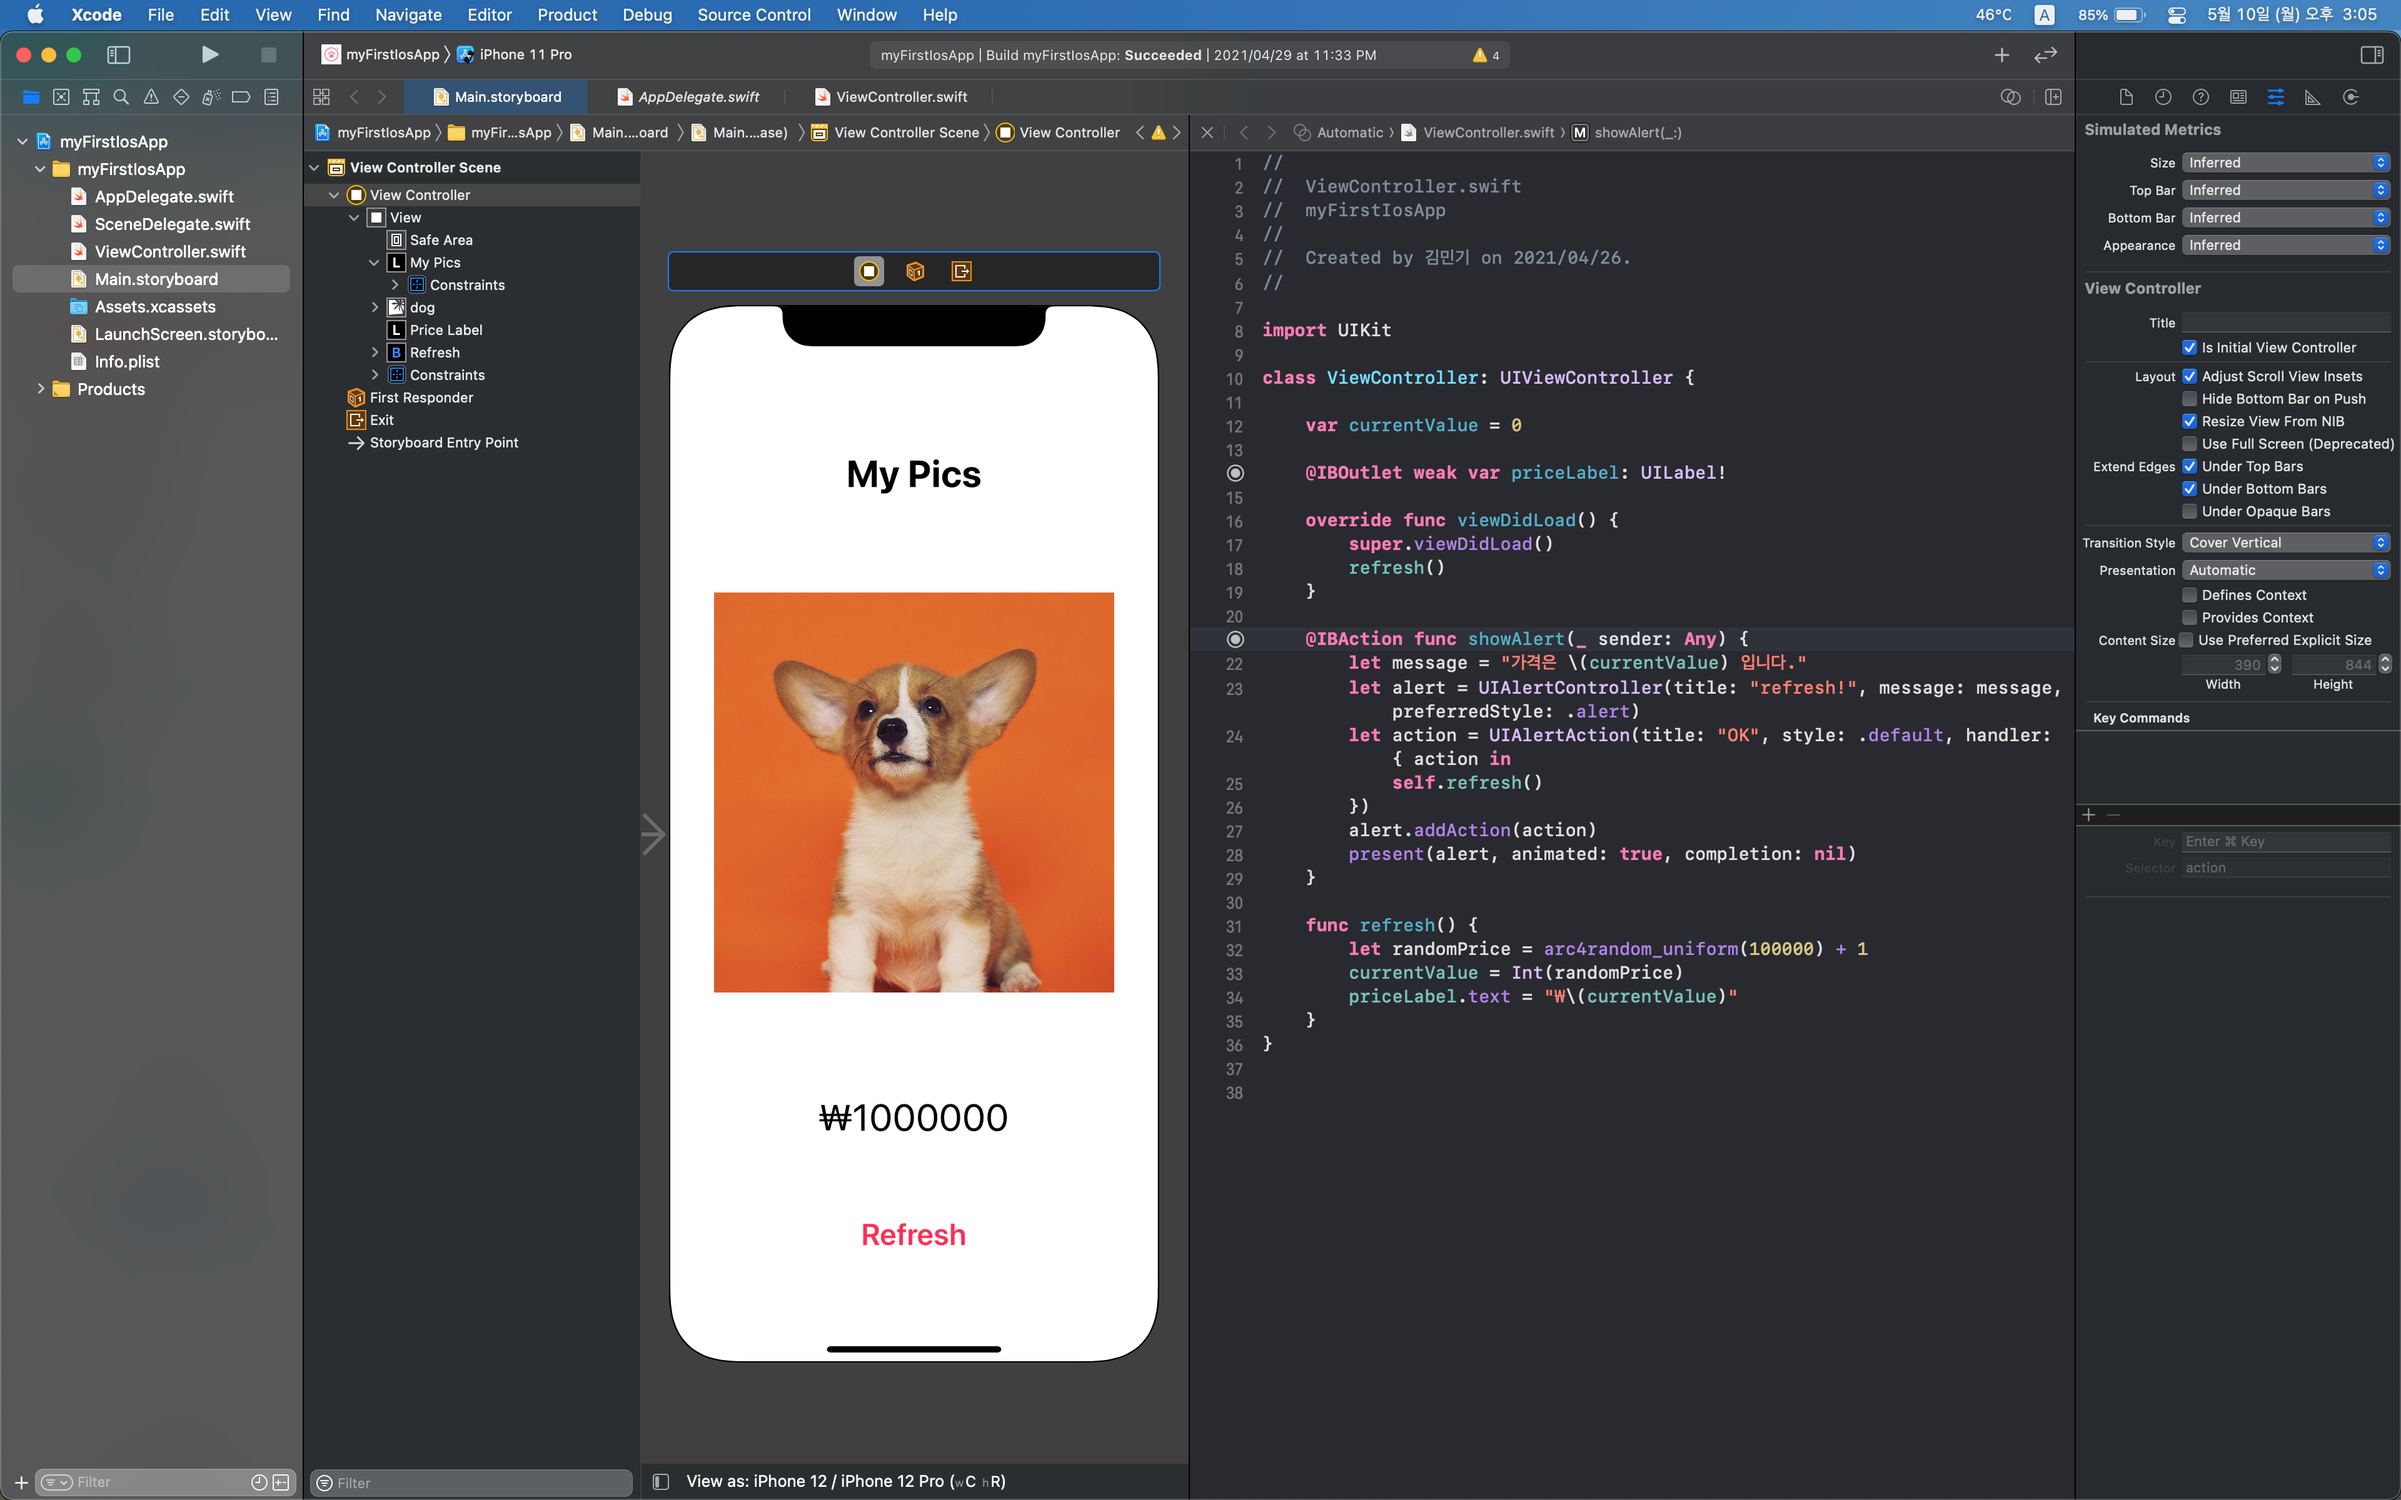
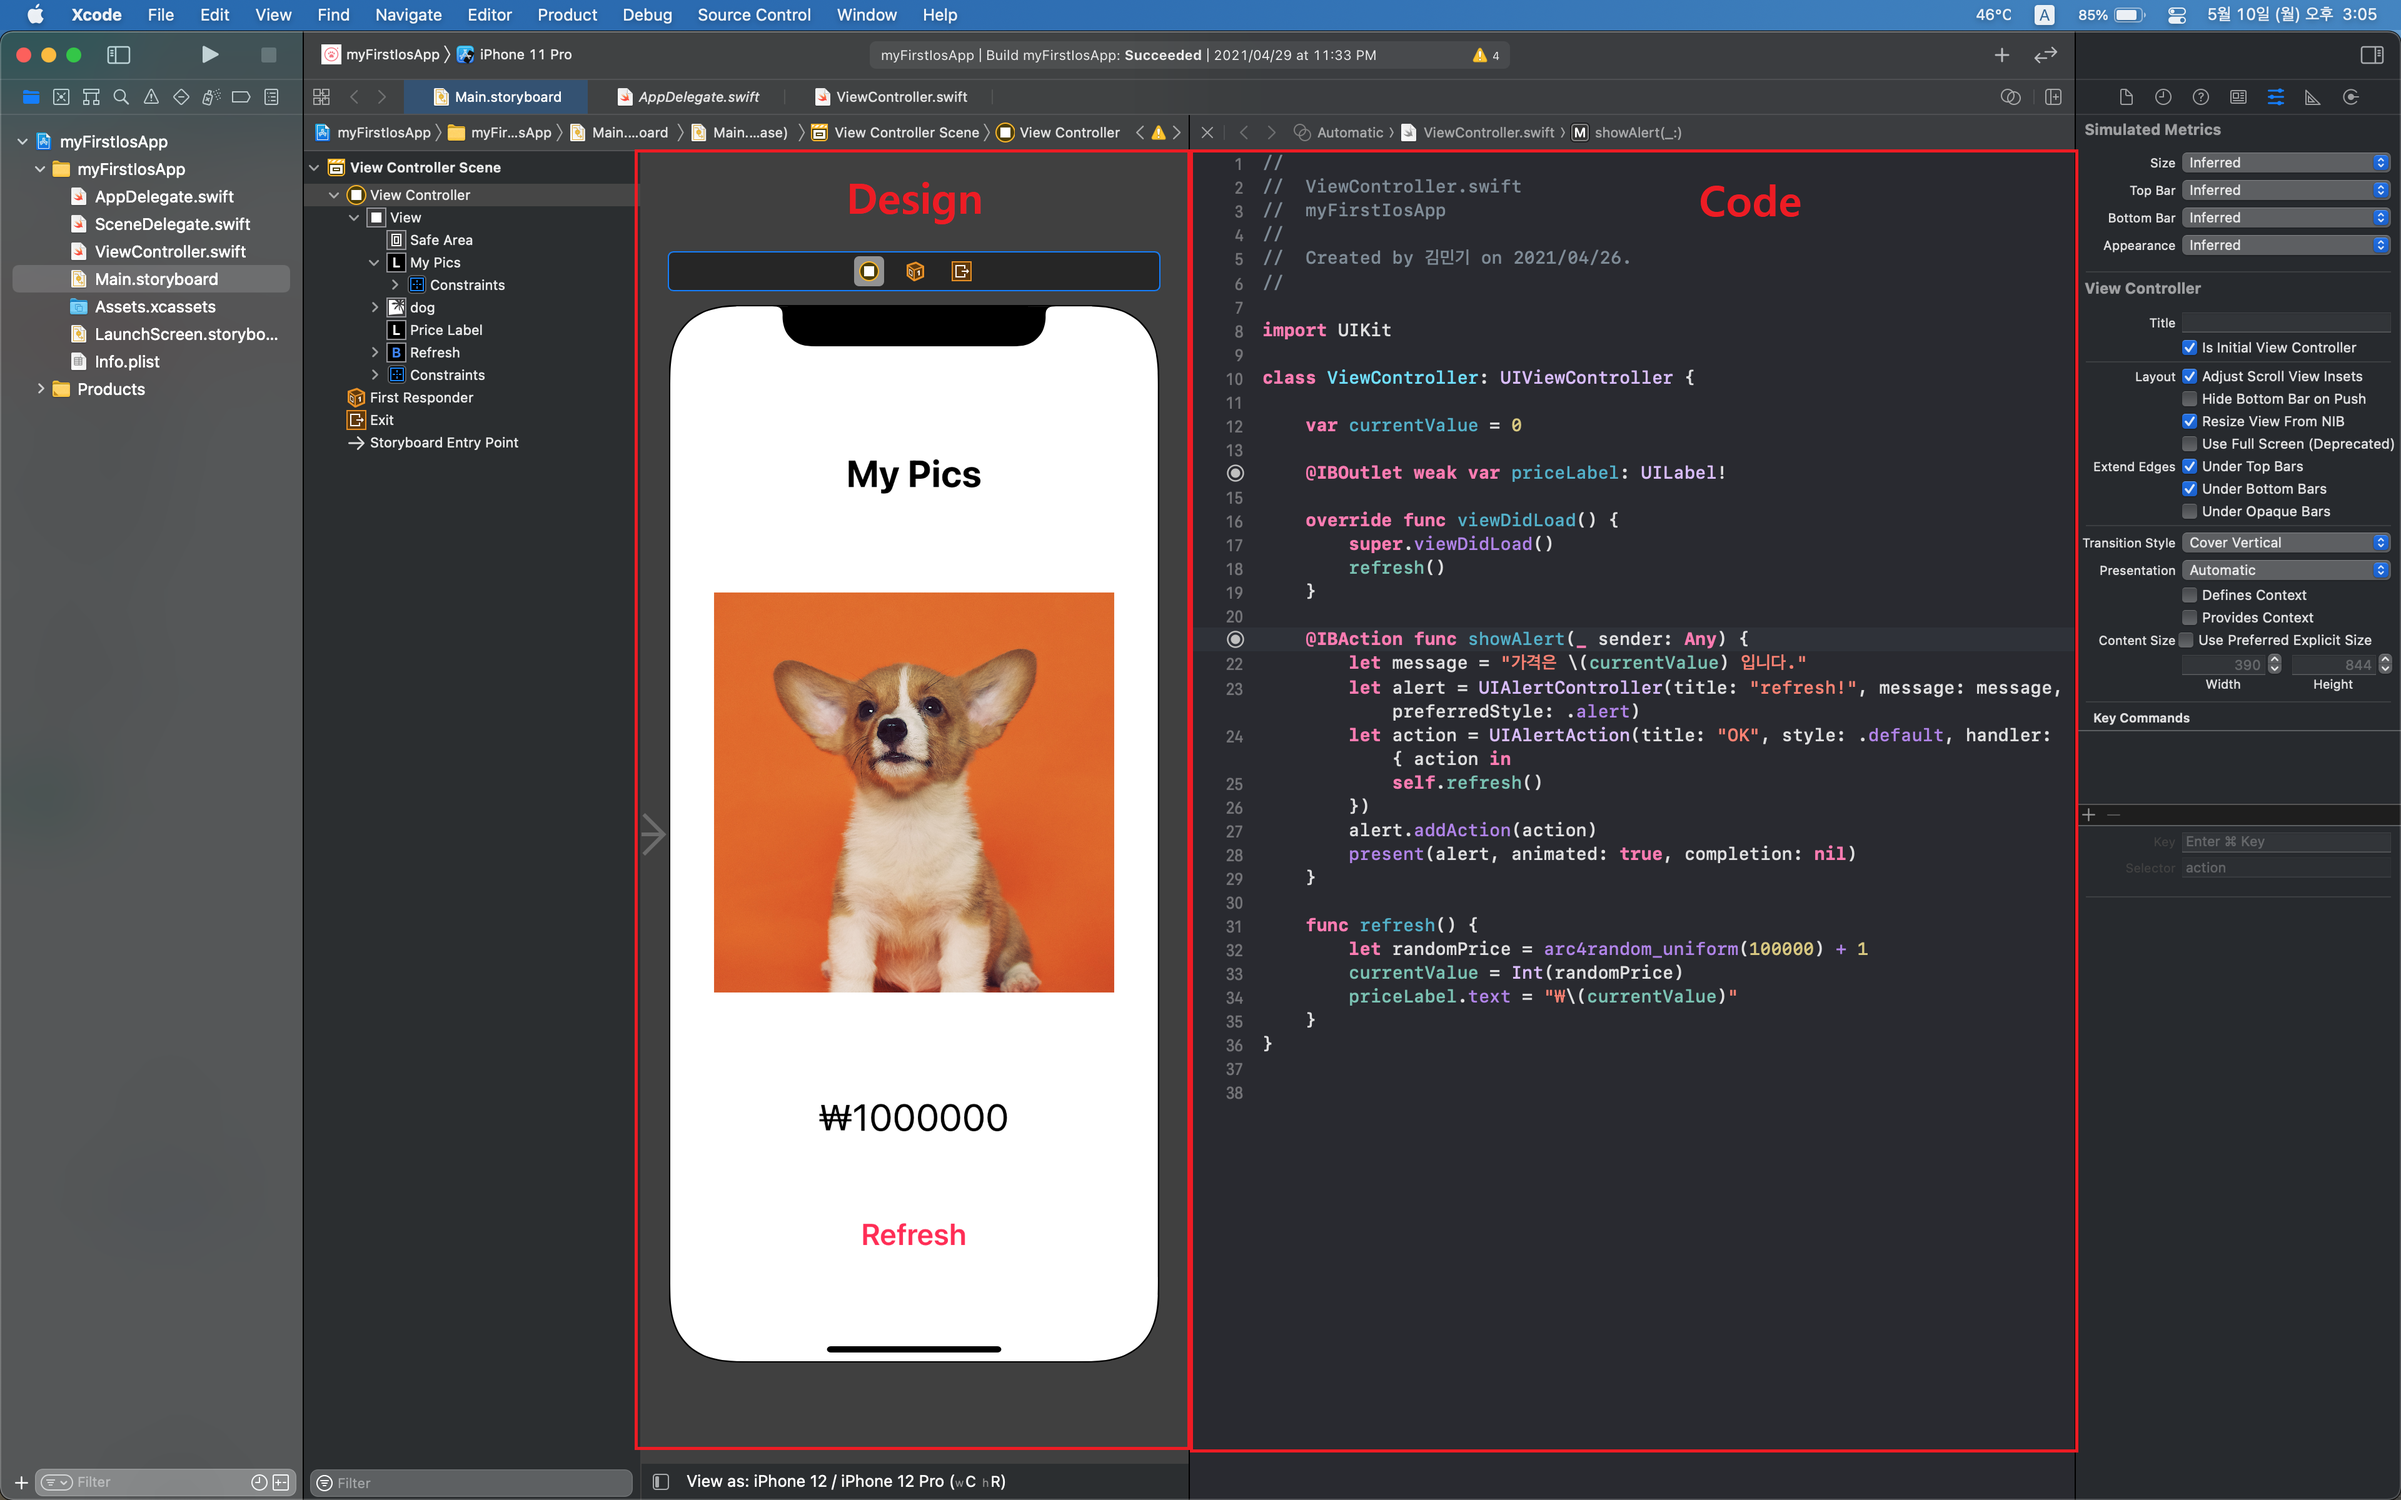
Update Day3.md

diff --git a/Day3.md b/Day3.md
@@ -1,4 +1,4 @@
-### 첫 앱 만들기
+
 
 ---
 
@@ -19,9 +19,12 @@
   <img src = "/img/viewController.png" width="450">
 
   - View Controller는 페이지(스크린) 하나를 담당한다.
+
     - 이번 앱에서는 페이지가 하나만 필요하기 때문에 View Controller 하나만 사용
-    - <img src = "/img/viewControllerPart.png" width="350">
+
     - View Controller는 스토리보드에서 확인하는 Design part 그리고 거기에 연결된 Code part가 있다.
+
+      <img src="/img/viewControllerPart.png" width="350">
 
   - 기종 사이즈는 원하는대로
 
